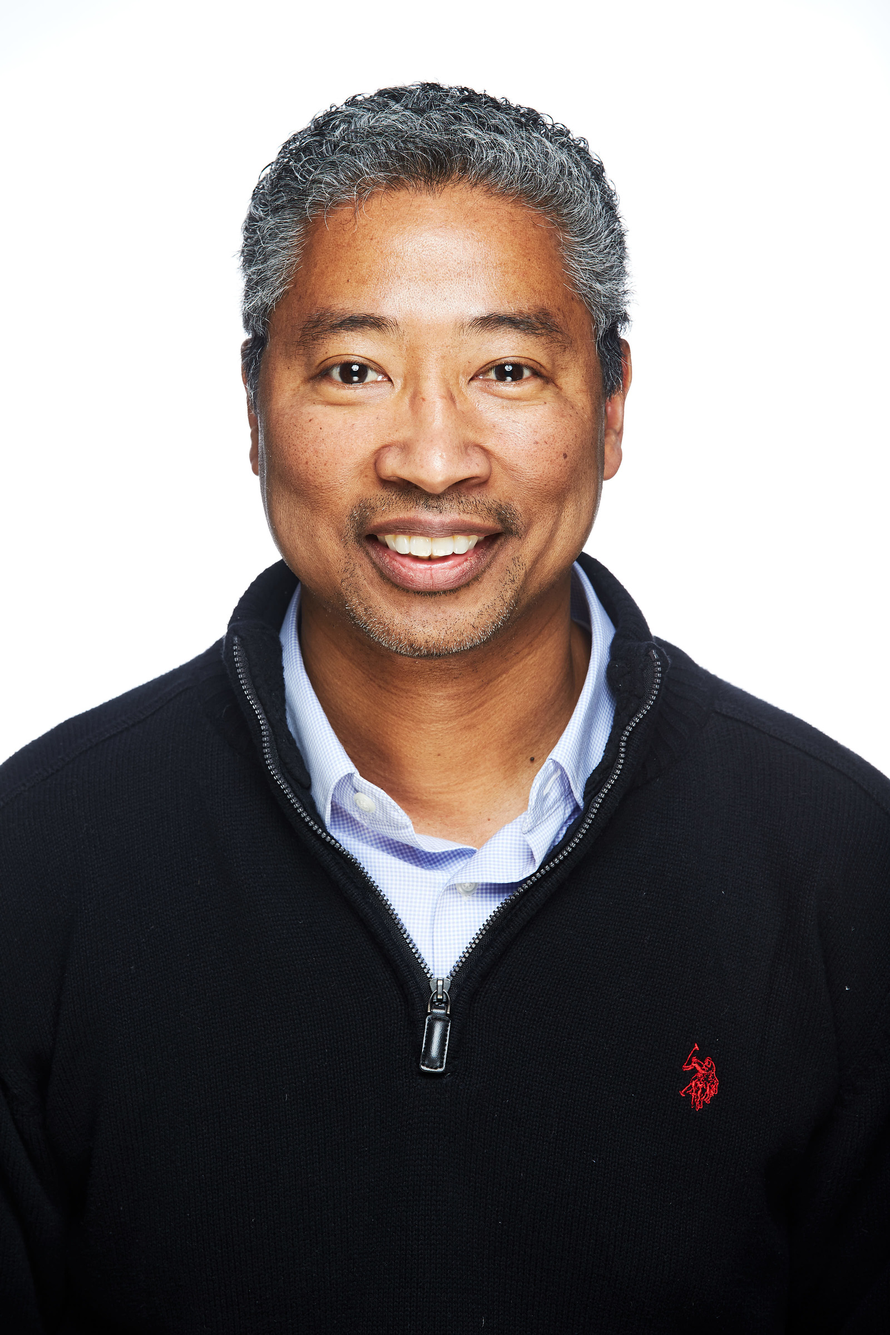
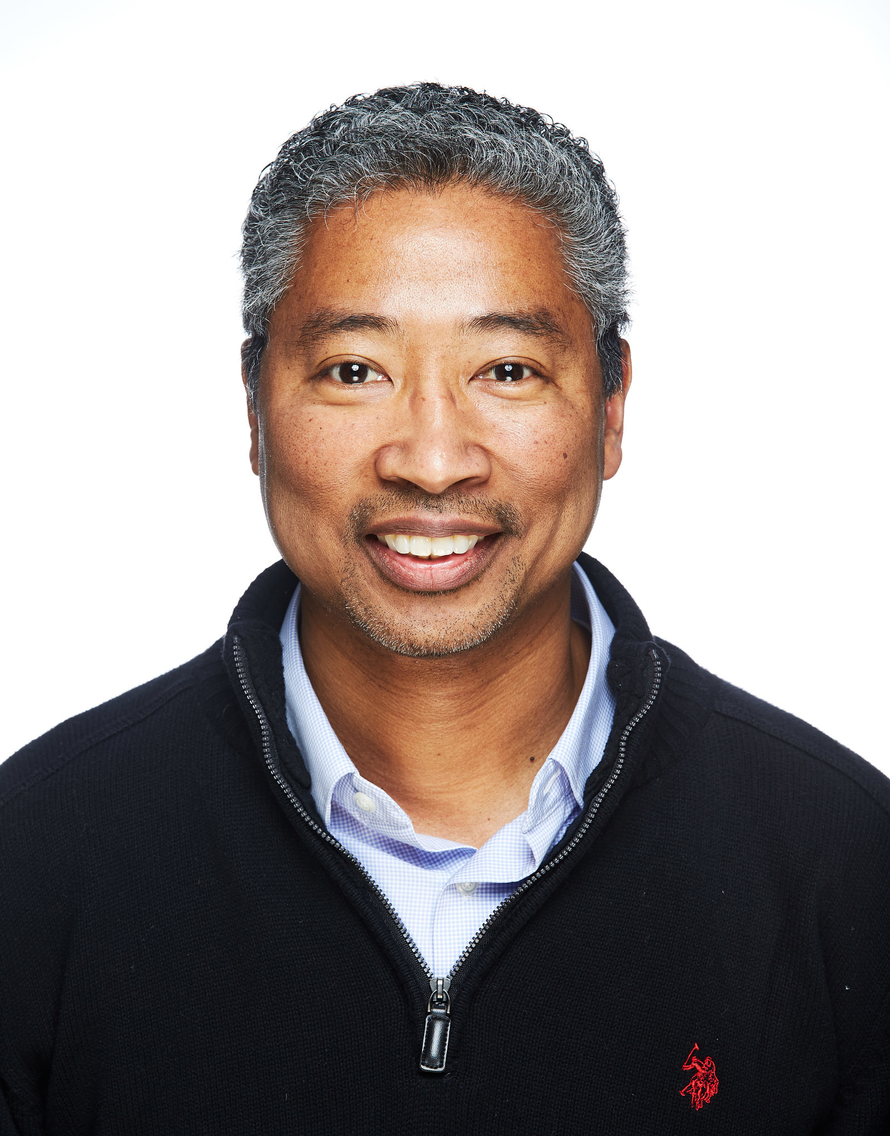
Crop headshots

diff --git a/mentors.html b/mentors.html
@@ -490,7 +490,7 @@
         <div class="mentor-big-infobox container">
           <div class="row">
             <div class="col-4">
-              <img src="img/mentor-headshots/ilya-yudkovich.png" class="float-left mentor-headshot">
+              <img src="img/mentor-headshots/ilya-yudkovich.jpg" class="float-left mentor-headshot">
             </div>
             <div class="col-8">
               <div class="mentor-name-header">Ilya Yudkovich</div>
